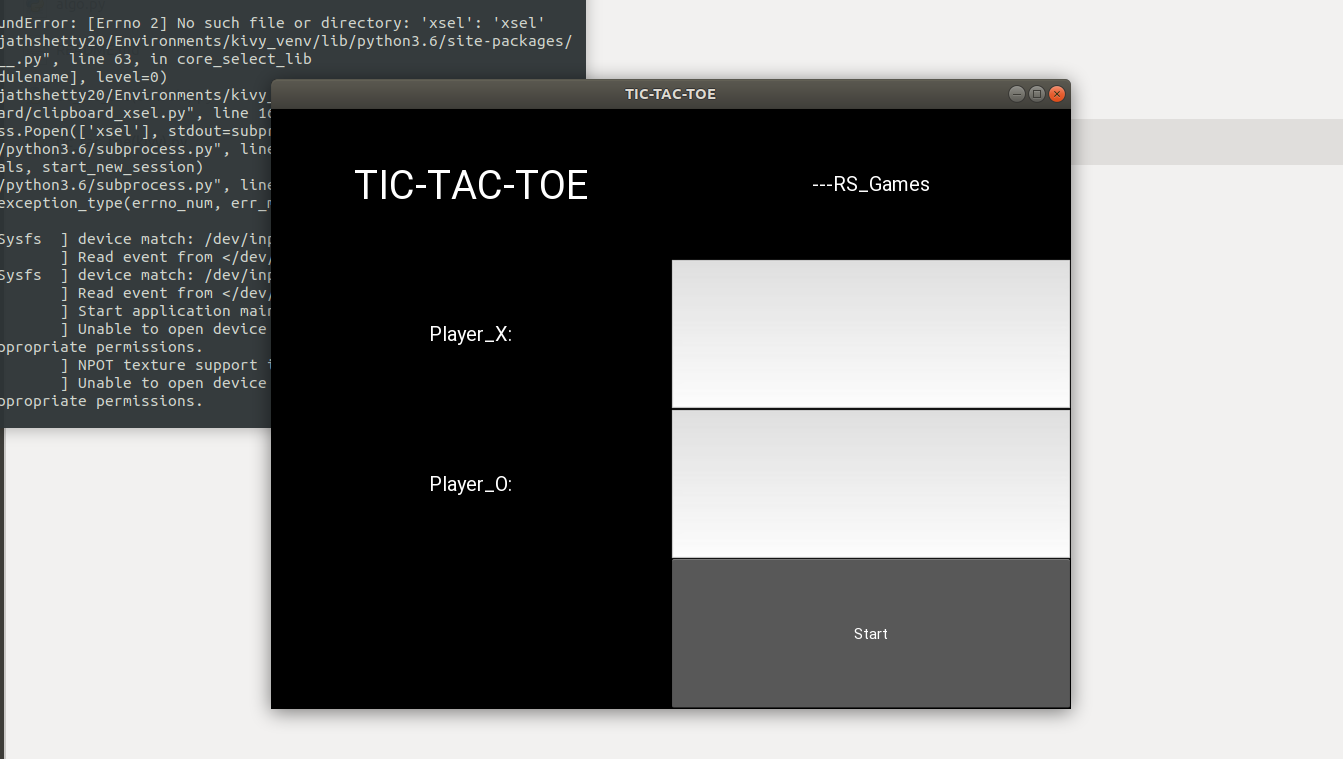
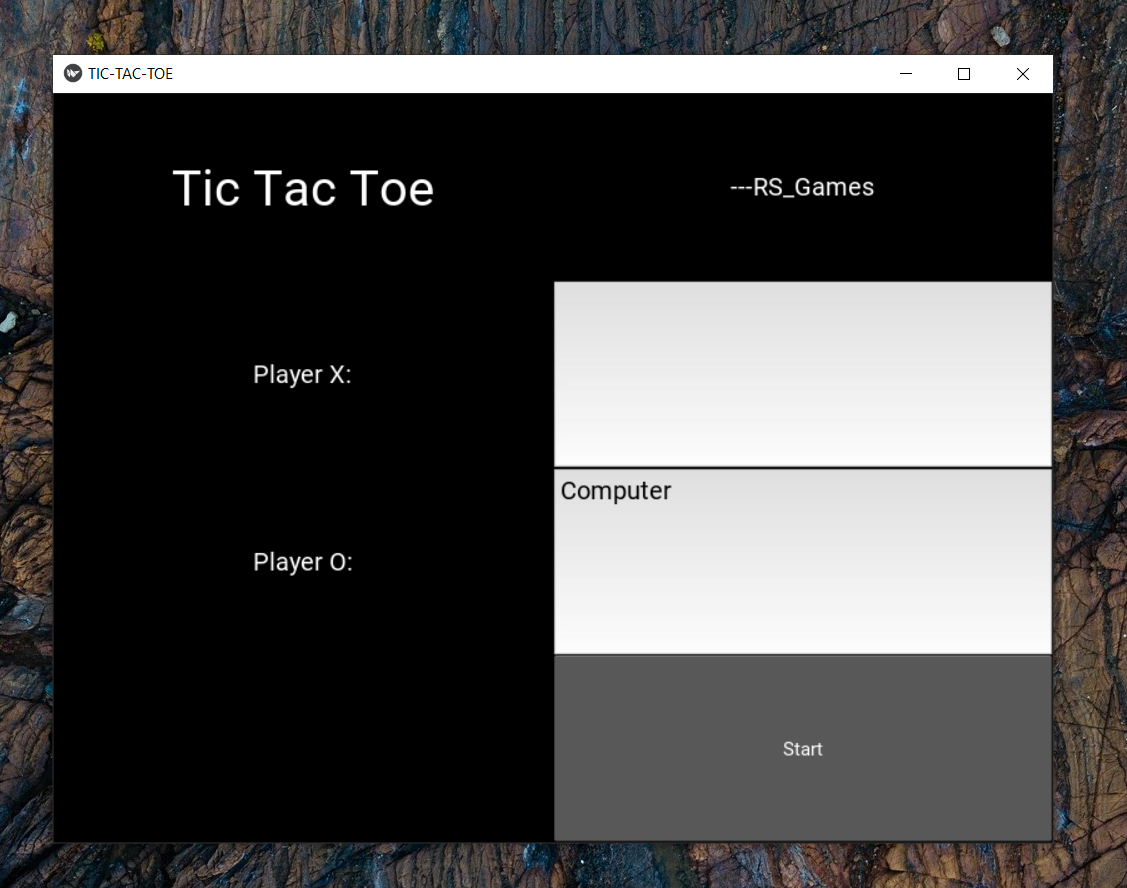
added minimax

diff --git a/tic_tac_toe.py b/tic_tac_toe.py
@@ -7,11 +7,10 @@ from kivy.uix.label import Label
 from kivy.uix.button import Button
 from kivy.uix.textinput import TextInput
 
-kivy.require('1.11.1')
-
 from algo import Algo
 
 my_algo = Algo()
+AI_mode = False
 player_name = ['X','O']
 player_sign = ['X','O']
 
@@ -20,13 +19,13 @@ class Login(GridLayout):
     def __init__(self, **kwargs):
         super().__init__(**kwargs)
         self.cols = 2
-        self.add_widget(Label(font_size = 40, text="TIC-TAC-TOE"))
+        self.add_widget(Label(font_size = 40, text="Tic Tac Toe"))
         self.add_widget(Label(text="---RS_Games", font_size=20))
-        self.add_widget(Label(text="Player_X:", font_size=20))
+        self.add_widget(Label(text="Player X:", font_size=20))
         self.player_x = TextInput(multiline=False, font_size=20)
         self.add_widget(self.player_x)
-        self.add_widget(Label(text="Player_O:", font_size=20))
-        self.player_o = TextInput(multiline=False, font_size=20)
+        self.add_widget(Label(text="Player O:", font_size=20))
+        self.player_o = TextInput(text="Computer", multiline=False, font_size=20)
         self.add_widget(self.player_o)
         self.add_widget(Label())
         self.start = Button(text="Start")
@@ -36,6 +35,9 @@ class Login(GridLayout):
     def start_game(self, button):
         player_name[0] = self.player_x.text
         player_name[1] = self.player_o.text
+        if player_name[1]=="Computer":
+            global AI_mode
+            AI_mode = True 
         my_app.game.message.text = "{} to play".format(player_name[my_app.game.current_player])
         my_app.screen_manager.current = "game"
 
@@ -44,13 +46,13 @@ class Game(GridLayout):
     def __init__(self, **kwargs):
         super().__init__(**kwargs)
         self.cols = 3
-        self.b = []
+        self.buttons = []
         for x in range(0,9):
             button = Button(text='-', font_size=30)
             button.number = x
             button.bind(on_press=self.button_press)
             self.add_widget(button)
-            self.b.append(button)
+            self.buttons.append(button)
         self.message = Label(font_size=30)
         self.add_widget(self.message)
         self.play = True
@@ -86,14 +88,24 @@ class Game(GridLayout):
                     self.current_player = 0
                 self.message.text = "{} to play".format(player_name[self.current_player])
 
+        #AI decision
+        if AI_mode and self.play and self.current_player==1:
+            choice = my_algo.ai_choice()
+            self.button_press(self.buttons[choice])
+
     def restart(self, button):
         for x in range(0,9):
             my_algo.board[x] = '-'
-            for x in self.b:
+            for x in self.buttons:
                 x.text = '-'
                 self.message.text = "{} to play".format(player_name[self.current_player])
         self.remove_widget(self.replay)
         self.play = True
+
+        #AI decision when it has the first move
+        if AI_mode and self.play and self.current_player==1:
+            choice = my_algo.ai_choice()
+            self.button_press(self.buttons[choice])
 
 class MyApp(App):
     def build(self):

diff --git a/algo.py b/algo.py
@@ -36,4 +36,61 @@ class Algo:
 				break
 		return draw
 
+	def minimax(self, isAI):
+		if self.check_win():
+			if isAI:
+				score = 1
+			else:
+				score = -1
+
+		elif self.check_draw():
+			score = 0
+		
+		else:
+			#The next move is for the player. The player will minimize the score
+			if isAI:
+				bestScore = 1000
+				bestMove = -1
+				for x in range(0,9):
+					if self.board[x]=="-":
+						self.board[x] = 'X'
+						moveScore = self.minimax(False)
+						self.board[x] = '-'
+
+						if moveScore<bestScore:
+							bestScore = moveScore
+							bestMove = x
+						
+				score = bestScore
+
+			#The next move is for the computer. The computer will maximize the score
+			else:
+				bestScore = -1000
+				bestMove = -1
+				for x in range(0,9):
+					if self.board[x]=="-":
+						self.board[x] = 'O'
+						moveScore = self.minimax(True)
+						self.board[x] = '-'
+
+						if moveScore>bestScore:
+							bestScore = moveScore
+							bestMove = x
+				score =  bestScore
+		return score
+
+	def ai_choice(self):
+		bestScore = -1000
+		bestMove = -1
+		for x in range(0,9):
+			if self.board[x]=="-":
+				self.board[x] = 'O'
+				moveScore = self.minimax(True)
+				self.board[x] = '-'
+
+				if moveScore>bestScore:
+					bestScore = moveScore
+					bestMove = x
+		return bestMove
+
 

diff --git a/README.md b/README.md
@@ -1,7 +1,8 @@
-# tic-tac-toe
-1. Console version: `python tic_tac_toe(console).py`
-2. GUI version: `python tic_tac_toe(kivy).py` The GUI version requires kivy 1.11.1 with python3
+# TicTacToe_AI
+
+I have used the MiniMax Algorithm to make the computer's choice in the single player mode.
+Run `python tic_tac_toe.py` to play the game. The default Player_O is the computer. You can change the name, to play in the multiplayer mode. The GUI requires kivy with python3.
 
 ![img1](https://raw.githubusercontent.com/rajathshetty20/tic_tac_toe/master/img/img1.png)
-
+ 
 ![img2](https://raw.githubusercontent.com/rajathshetty20/tic_tac_toe/master/img/img2.png)
